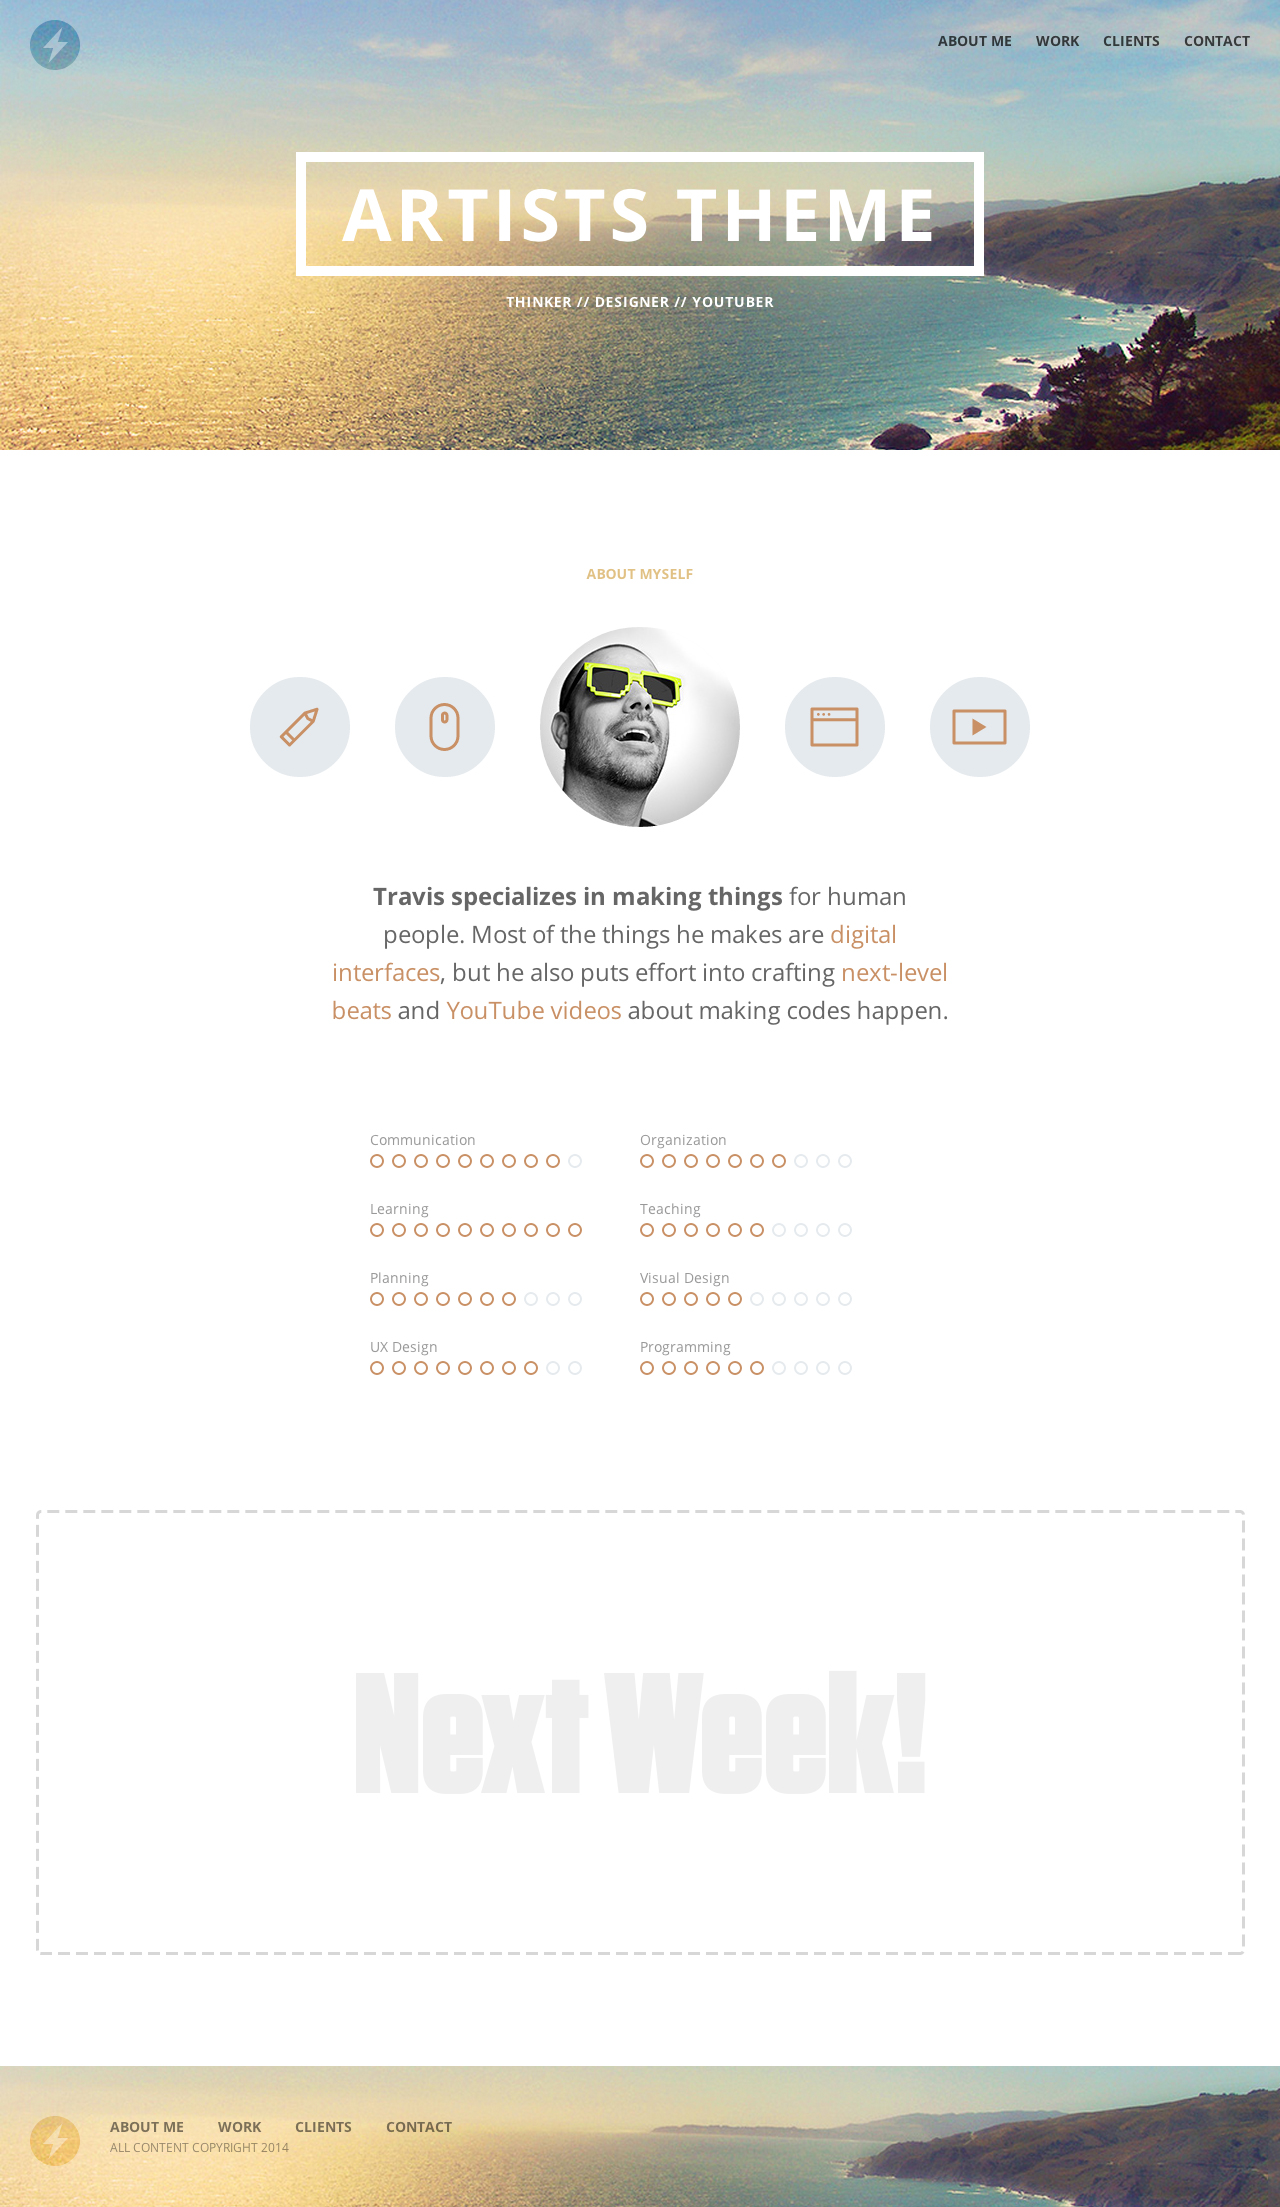
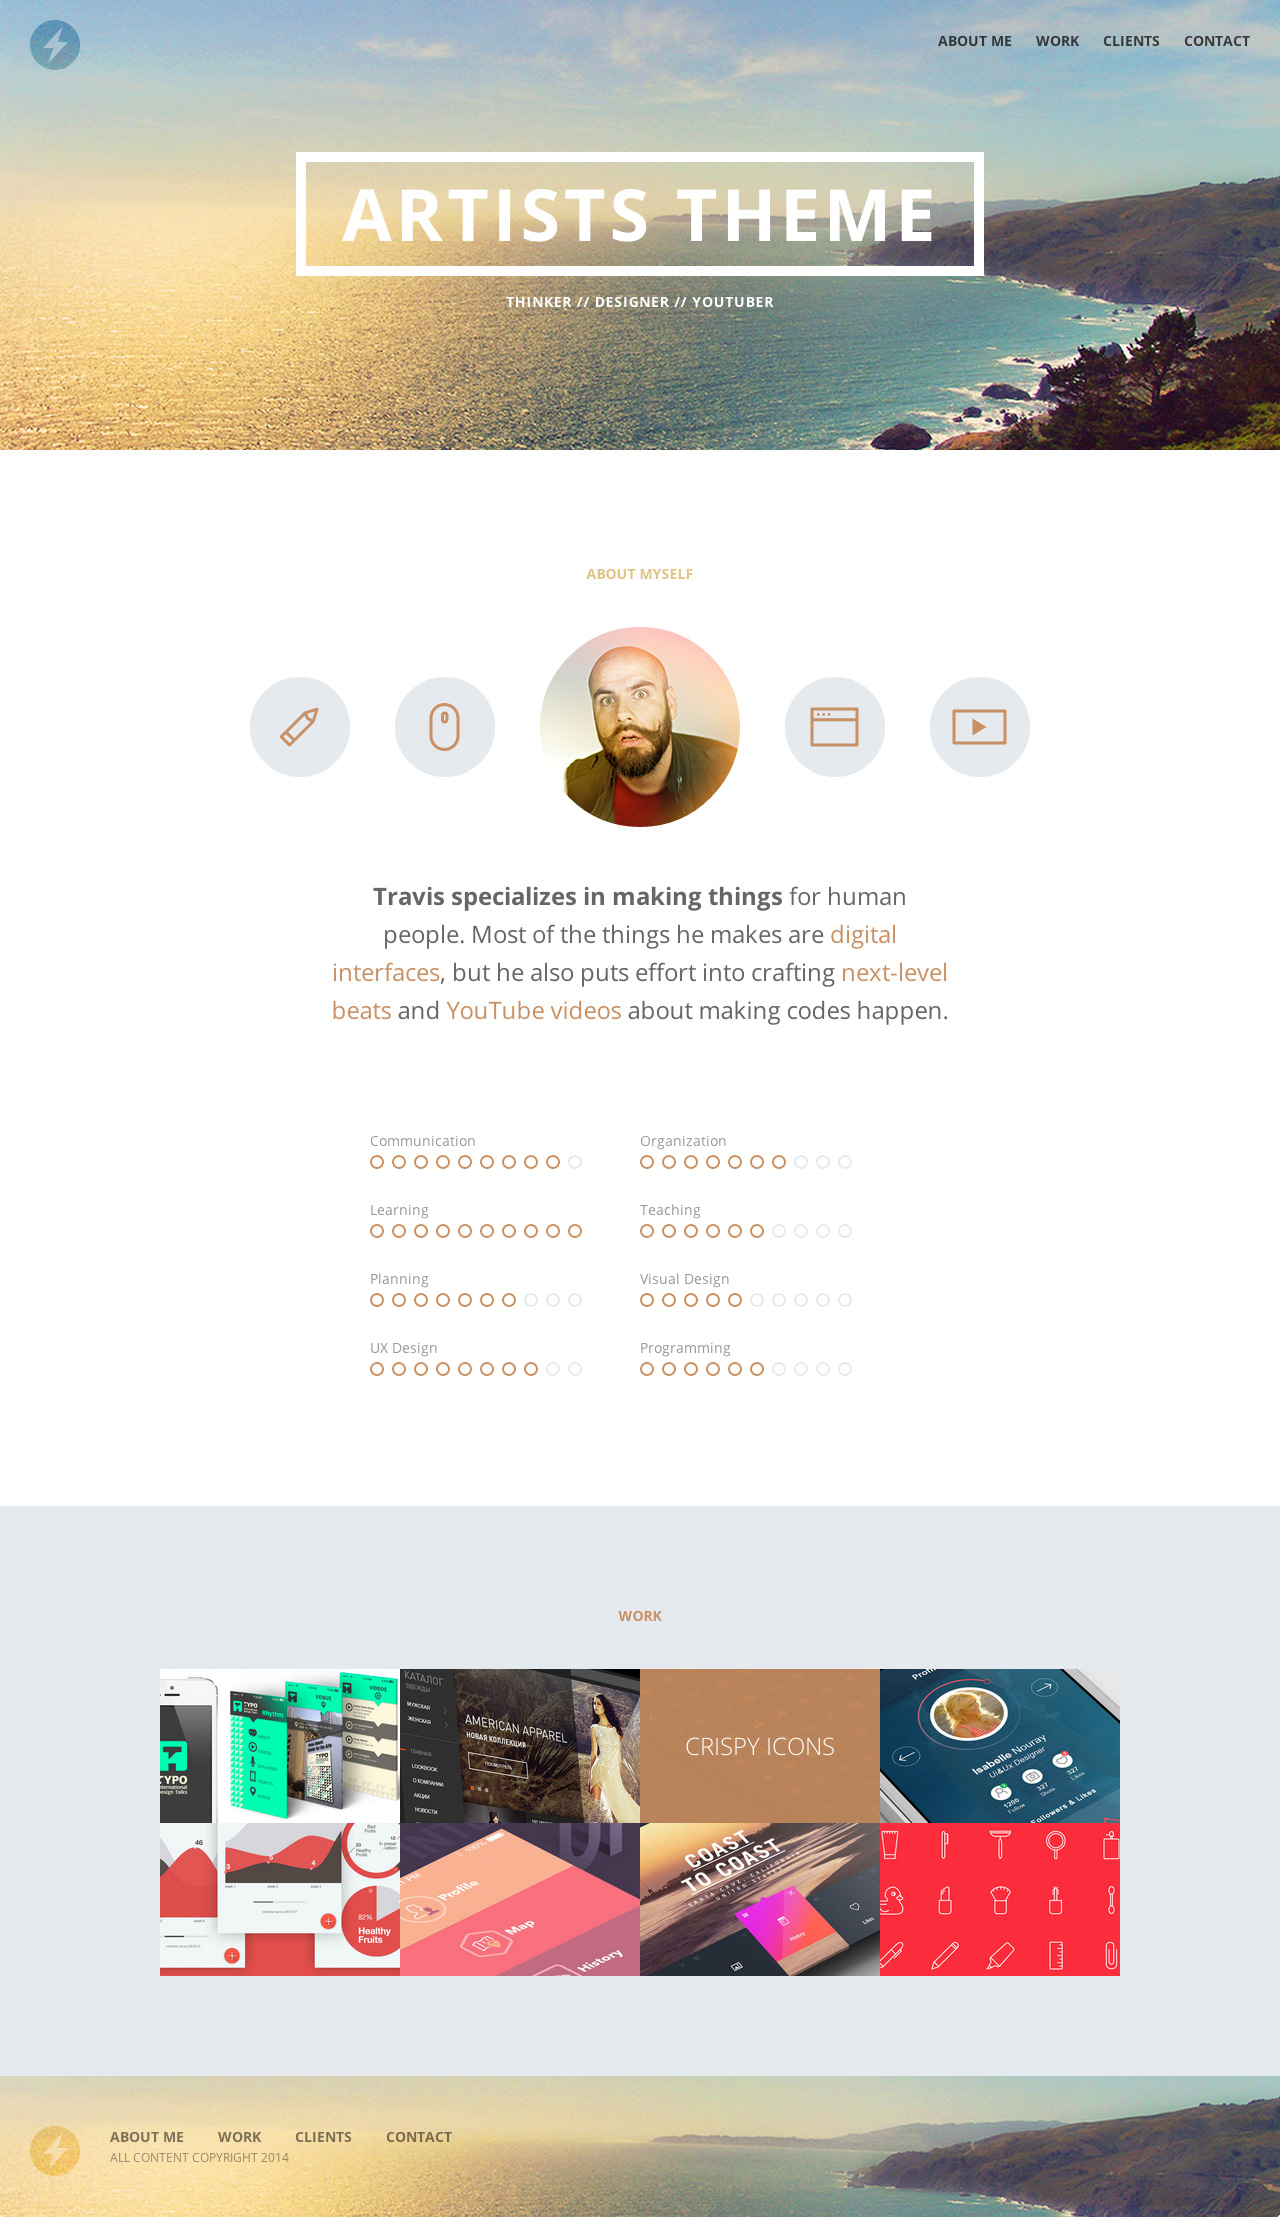
Small clean up from the work section add

diff --git a/assets/css/3-sections/_work.sass b/assets/css/3-sections/_work.sass
@@ -1,13 +1,7 @@
-.alt-section
-  background: $bgcolor
-  
-  h3
-    color: darken($accent, 0%)
-
 .thumb-container
   max-width: 960px
   margin: 0px auto
-  padding-bottom: 100px
+  
   +clearfix
   
   .thumb-unit
@@ -49,20 +43,12 @@
         text-transform: uppercase
         font-size: 24px
         line-height: 1.2
-        
-      .icon-zoom
-        +size(40px)
-        margin: 0px auto
-        
-        path
-          fill: white
       
     &:hover .thumb-overlay
       +position(absolute, 0% 0px null 0px)
       opacity: 1
       +transform(rotateX(0deg))
     
-
   
     
     

diff --git a/assets/css/2-base/_base.sass b/assets/css/2-base/_base.sass
@@ -105,3 +105,10 @@ h3
 @media screen and (max-width: 480px)
   h3
     padding: 50px 0 50px
+
+.alt-section
+  background: $bgcolor
+  padding-bottom: 100px
+  
+  h3
+    color: darken($accent-light, 10%)
